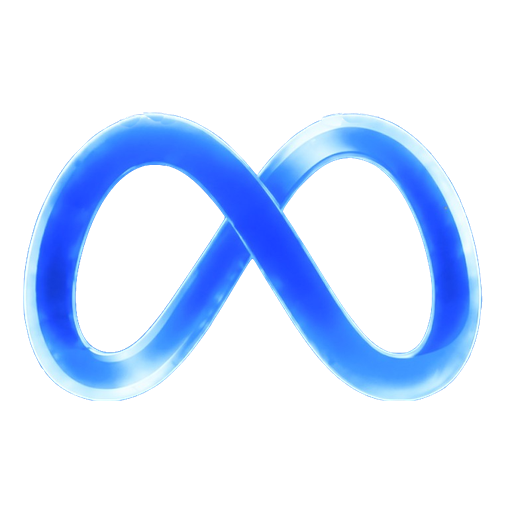
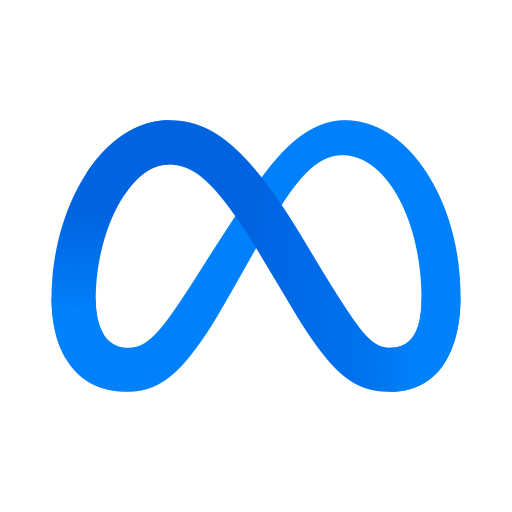
feat(brand): update Muse Code artwork to authentic Meta loop mark (#174)
- Replace interim header graphic with authentic Meta gradient loop mark (matching user-uploaded asset) rendered at 512x512 on transparent background.
- Bundle vector muse-code.svg and update iOS companion asset catalog (provider-muse-code.imageset).
- Verify clean compilation across SwiftPM test suites and iOS companion xcodebuild.

Changed region(s): [[0.0312, 0.2188, 0.9688, 0.7812]]

diff --git a/docs/EFFORT-LOG.md b/docs/EFFORT-LOG.md
@@ -6,8 +6,8 @@ Lane: `ag/glance-footer-equidistant-muse-split`.
 
 - Glance footer geometry & styling polish: updated footer height to 40pt with 28pt custom prominent button style (`GlanceFooterProminentButtonStyle`), exactly matching the runaway marquee notice banner's 28pt height and `RoundedRectangle(cornerRadius: 6)`.  Configured button padding so top (6pt), bottom (6pt), and trailing (6pt) margins to the window and divider edges are mathematically equidistant.  Ensured high-contrast rendering across dark mode (pastel accent with dark ink) and light mode (deep accent with crisp white text).
 - Split Muse into two separate providers: replaced generic `muse` with dedicated `muse-assist` ("Muse Assist") and `muse-code` ("Muse Code") in `QuotaProviders.expected` (total 9 expected providers).  Preserved backward compatibility with aliases for `muse-assist`, `muse-assistant`, `muse-code`, `muse`, `muse-cli`, and `muse-sdk`.
-- Asset bundling & cross-platform mappings: bundled high-resolution `muse-assist.png` (transparent background blue script "m") and `muse-code.png` (Meta infinity loop artwork from `MuseCode - Dark Mode.png`).  Generated 1x/2x/3x asset catalogs (`provider-muse-assist.imageset`, `provider-muse-code.imageset`) for iOS companion and widgets.  Updated `PlatformLogo`, `CompanionQuotaModel`, `WidgetPresentation`, and `WidgetViews`.
-- Verification: all 721 unit tests passing across `QuotaCoreTests` (390 tests) and `CodeCapsTests` (331 tests); clean build of `CodeCapsCompanion` iOS simulator target via `xcodebuild`.
+- Asset bundling & cross-platform mappings: bundled high-resolution `muse-assist.png` (transparent background blue script "m") and authentic Meta gradient loop artwork for `muse-code.png` and `muse-code.svg` (matching user-uploaded Meta mark on transparent background).  Generated 1x/2x/3x asset catalogs (`provider-muse-assist.imageset`, `provider-muse-code.imageset`) for iOS companion and widgets.  Updated `PlatformLogo`, `CompanionQuotaModel`, `WidgetPresentation`, and `WidgetViews`.
+- Verification: all 742 unit tests passing across `QuotaCoreTests` (393 tests) and `CodeCapsTests` (349 tests); clean build of `CodeCapsCompanion` iOS simulator target via `xcodebuild`.
 
 ---
 
